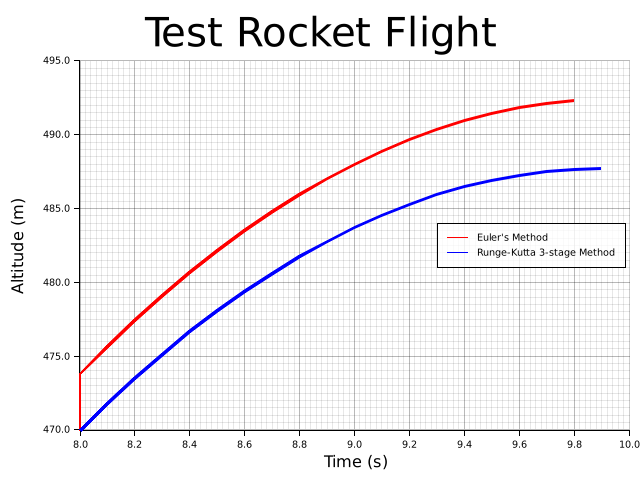
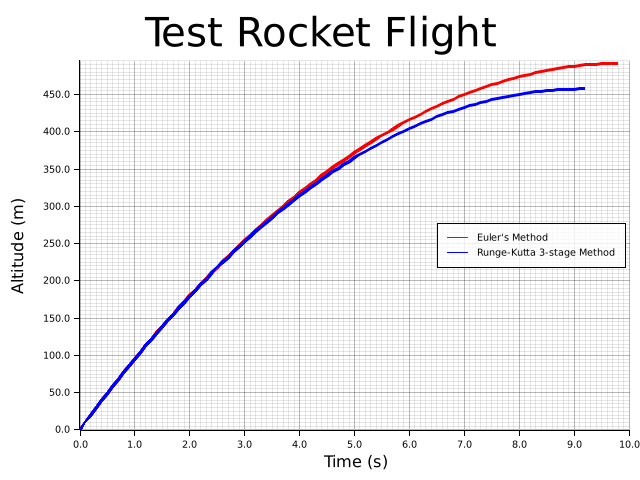
tweaks

diff --git a/src/main.rs b/src/main.rs
@@ -34,13 +34,13 @@ fn main() -> Result<(), Box<dyn std::error::Error>> {
 
     // Initial Conditions
     let u0: [f64; 2] = [0.0, 100.0]; // m, m/s
-    let state_euler = State::__1DOF(Dof1::new(u0, test_rocket));
+    let state_euler = State::__1DOF(Dof1::new(u0, test_rocket.clone()));
 
     let u0: [f64; 6] = [0.0, 0.0, 0.0, 0.0, 100.0, 0.0]; // m, m, rad, m/s, m/s, rad/s
-    let state_rk3 = State::__3DOF(Dof3::new(u0, test_rocket));
+    let state_rk3 = State::__3DOF(Dof3::new(u0, test_rocket.clone()));
 
     // iteration/calculation Parameters
-    const MAXITER: u64 = 1e5 as u64;        //Maximum number of iterations before stopping calculation
+    const MAXITER: u64 = 1e4 as u64;        //Maximum number of iterations before stopping calculation
     const DT: f64 = 1e-1 as f64;            //Timestep size to use when integrating ODE
     let euler_method = OdeIterators::Euler(DT);
     let rk3 = OdeIterators::RK3(DT);
@@ -63,9 +63,9 @@ fn main() -> Result<(), Box<dyn std::error::Error>> {
     // ========== Plotting Results (will be cleaned up in the future)
     let file_name = "test.png";
 
-    let xmin = 8f32;
+    let xmin = 0f32;
     let xmax = 10f32;
-    let ymin = 470f32;
+    let ymin = 0f32;
     let ymax = 495f32;
 
     let plot_title = "Test Rocket Flight";

diff --git a/src/simdata_mod.rs b/src/simdata_mod.rs
@@ -66,7 +66,7 @@ impl Iterator for SimulationData {
 //##################################################################################################
 //##################################################################################################
 #[derive(Debug, Clone)]
-struct SimData1Dof {
+pub(crate) struct SimData1Dof {
     len: u64,
     time: Vec<f64>,
     data: Vec<[f64; 3]>,
@@ -109,7 +109,7 @@ impl SimData1Dof {
 //##################################################################################################
 //##################################################################################################
 #[derive(Debug, Clone)]
-struct SimData3Dof {
+pub(crate) struct SimData3Dof {
     len: u64,
     time: Vec<f64>,
     data: Vec<[f64; 9]>,

diff --git a/src/state_mod.rs b/src/state_mod.rs
@@ -316,7 +316,7 @@ impl Dof3 {
         let dydt = self.u[4];
         let dadt = self.u[5];
 
-        self.dudt = [dxdt, dydt, dadt, dvydt, dvxdt, domegadt];
+        self.dudt = [dxdt, dydt, dadt, dvxdt, dvydt, domegadt];
         self.is_current = true;
     }
 }
